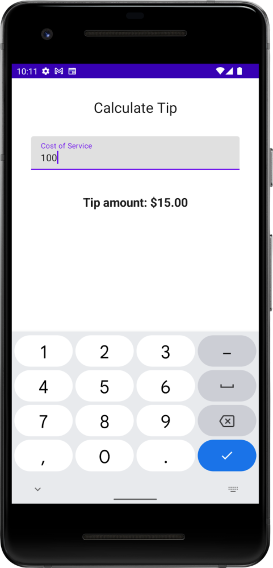
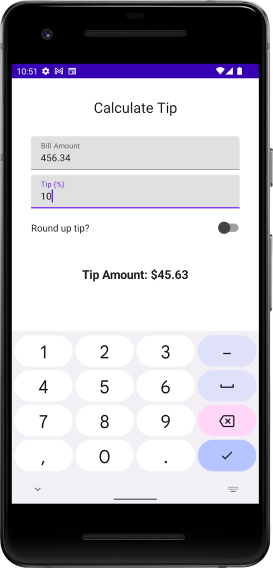
Calcula una propina personalizada

diff --git a/Unidad_2_Compila_la_IU_de_una_app/TipTime/app/src/main/java/com/example/tiptime/MainActivity.kt b/Unidad_2_Compila_la_IU_de_una_app/TipTime/app/src/main/java/com/example/tiptime/MainActivity.kt
@@ -3,17 +3,20 @@ package com.example.tiptime
 import android.os.Bundle
 import androidx.activity.ComponentActivity
 import androidx.activity.compose.setContent
+import androidx.annotation.StringRes
 import androidx.compose.foundation.layout.*
+import androidx.compose.foundation.text.KeyboardActions
 import androidx.compose.foundation.text.KeyboardOptions
-import androidx.compose.material.MaterialTheme
-import androidx.compose.material.Surface
-import androidx.compose.material.Text
-import androidx.compose.material.TextField
+import androidx.compose.material.*
 import androidx.compose.runtime.*
 import androidx.compose.ui.Alignment
 import androidx.compose.ui.Modifier
+import androidx.compose.ui.focus.FocusDirection
+import androidx.compose.ui.graphics.Color
+import androidx.compose.ui.platform.LocalFocusManager
 import androidx.compose.ui.res.stringResource
 import androidx.compose.ui.text.font.FontWeight
+import androidx.compose.ui.text.input.ImeAction
 import androidx.compose.ui.text.input.KeyboardType
 import androidx.compose.ui.tooling.preview.Preview
 import androidx.compose.ui.unit.dp
@@ -41,9 +44,15 @@ class MainActivity : ComponentActivity() {
 @Composable
 fun TipTimeScreen() {
     var amountInput by remember { mutableStateOf("") }
+    var tipInput by remember { mutableStateOf("") }
+    var roundUp by remember { mutableStateOf(false) }
 
+    val tipPercent = tipInput.toDoubleOrNull() ?: 0.0
     val amount = amountInput.toDoubleOrNull() ?: 0.0
-    val tip = calculateTip(amount)
+    val tip = calculateTip(amount, tipPercent, roundUp)
+
+    val focusManager = LocalFocusManager.current
+
 
     Column(
         modifier = Modifier.padding(32.dp),
@@ -55,9 +64,30 @@ fun TipTimeScreen() {
             modifier = Modifier.align(Alignment.CenterHorizontally)
         )
         Spacer(Modifier.height(16.dp))
-        EditNumberField(value = amountInput,
+        EditNumberField(
+            label = R.string.bill_amount,
+            keyboardOptions = KeyboardOptions(
+                keyboardType = KeyboardType.Number,
+                imeAction = ImeAction.Next
+            ),
+            keyboardActions = KeyboardActions(
+                onNext = { focusManager.moveFocus(FocusDirection.Down) }
+            ),
+            value = amountInput,
             onValueChange = { amountInput = it }
         )
+        EditNumberField(
+            label = R.string.how_was_the_service,
+            keyboardOptions = KeyboardOptions(
+                keyboardType = KeyboardType.Number,
+                imeAction = ImeAction.Done
+            ),
+            keyboardActions = KeyboardActions(
+                onDone = { focusManager.clearFocus() }),
+            value = tipInput,
+            onValueChange = { tipInput = it }
+        )
+        RoundTheTipRow(roundUp = roundUp, onRoundUpChanged = {roundUp != it})
         Spacer(Modifier.height(24.dp))
         Text(
             text = stringResource(R.string.tip_amount, tip),
@@ -70,25 +100,59 @@ fun TipTimeScreen() {
 }
 
 @Composable
+fun RoundTheTipRow(
+    roundUp: Boolean,
+    onRoundUpChanged: (Boolean) -> Unit,
+    modifier: Modifier = Modifier
+) {
+    Row(
+        modifier = Modifier
+            .fillMaxWidth()
+            .size(48.dp),
+        verticalAlignment = Alignment.CenterVertically
+    ) {
+        Text(text = stringResource(R.string.round_up_tip))
+        Switch(
+            modifier = modifier
+                .fillMaxWidth()
+                .wrapContentWidth(Alignment.End),
+            checked = roundUp,
+            onCheckedChange = onRoundUpChanged,
+            colors = SwitchDefaults.colors(
+                uncheckedThumbColor = Color.DarkGray
+            )
+        )
+    }
+}
+
+@Composable
 fun EditNumberField(
+    @StringRes label: Int,
     value: String,
-    onValueChange: (String) -> Unit
+    keyboardOptions: KeyboardOptions,
+    keyboardActions: KeyboardActions,
+    onValueChange: (String) -> Unit,
+    modifier: Modifier = Modifier
 ) {
     TextField(
         value = value,
         onValueChange = onValueChange,
-        label = { Text(stringResource(R.string.cost_of_service)) },
+        label = { Text(stringResource(label)) },
         modifier = Modifier.fillMaxWidth(),
         singleLine = true,
-        keyboardOptions = KeyboardOptions(keyboardType = KeyboardType.Number)
+        keyboardOptions = keyboardOptions,
+        keyboardActions = keyboardActions
     )
 }
 
 private fun calculateTip(
     amount: Double,
-    tipPercent: Double = 15.0
+    tipPercent: Double = 15.0,
+    roundUp: Boolean
 ): String {
-    val tip = tipPercent / 100 * amount
+    var tip = tipPercent / 100 * amount
+    if (roundUp)
+        tip = kotlin.math.ceil(tip)
     return NumberFormat.getCurrencyInstance().format(tip)
 }
 
